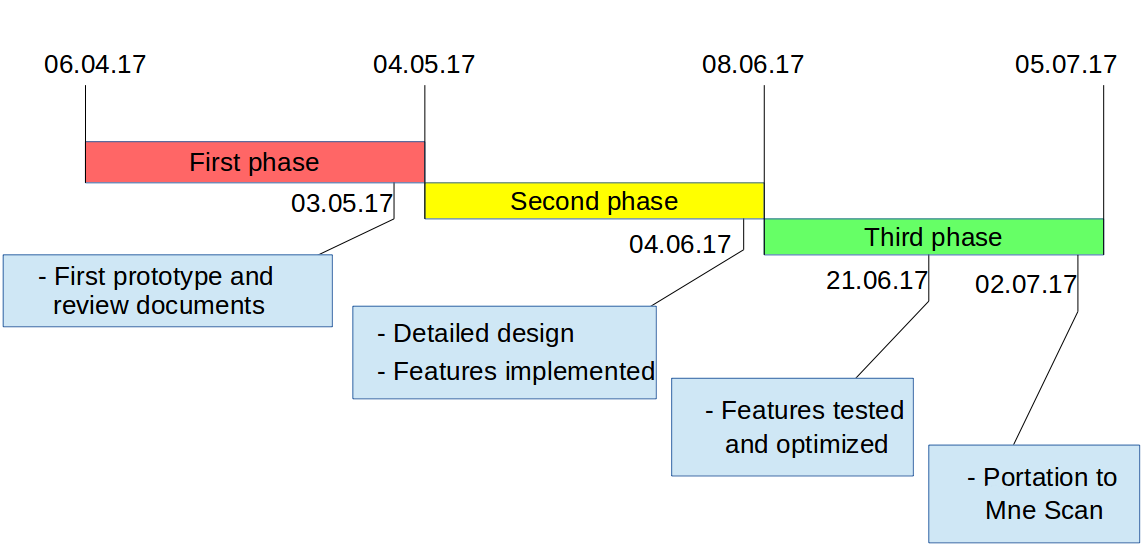
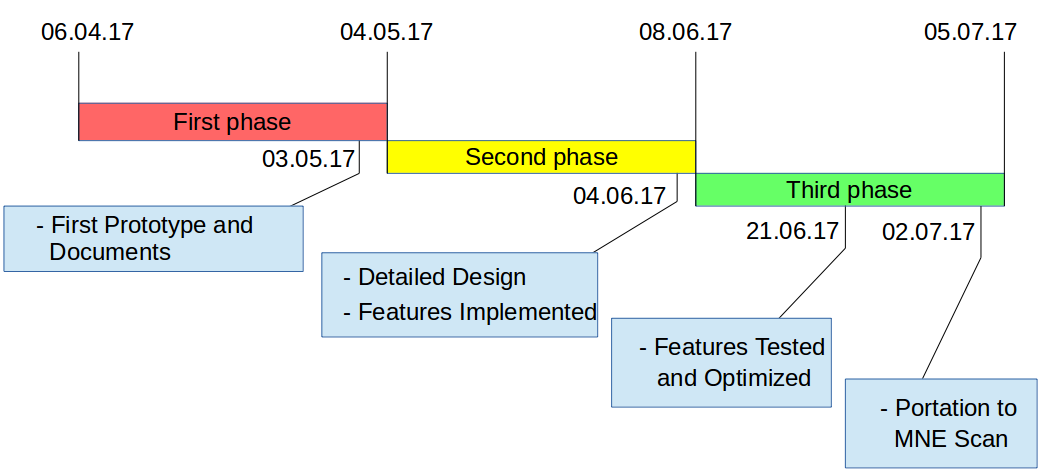
Changes from group review

diff --git a/revdocs/Reviewdokument/RD03.2-GoalsSecondPhase.tex b/revdocs/Reviewdokument/RD03.2-GoalsSecondPhase.tex
@@ -1,15 +1,37 @@
 \subsection{Goals for Third Phase}
-In this section the goals for the following phase are outlined. All features mentioned in the Functional Specification are intended to be operational and optimized afterwards as the project ends with this phase.
+In this section the goals for the following phase are outlined. All features mentioned in the Functional Specification are intended to be operational and optimized as the project ends after this phase.
 
-\subsubsection{Testing of SCDC}
-The correctness of the SCDC-feature has to be tested in order to guarantee realistic results when using its outputs during the later interpolation of signals. This could be done by manually verifying smaller sets of input data or by creating an alternative implementation that compares all possible paths and finds the shortest one.
-\subsubsection{Testing of Projecting}
-In case that the implementation of the sensor-to-mesh mapping will feature advanced data structures, the results can be verified by comparing them to the outputs produced by linear search.
-\subsubsection{Portation to MNE Scan}
-The features should ultimately be integrated into the front-end application MNE Scan, which requires for some extensions and adaption of the class interfaces. In the third phase we aim to achieve this concomitant with the completion of the features.
-\subsubsection{Optimization of the Interpolation}
-Interpolating the sensor data already provides a satisfactory level of efficiency at this point of time. In the upcoming phase we try to further improve its performance by utilizing compute shaders on the graphics card. This could speed up the calculation as well as it offers the advantage of having the output data already on the graphics card for further rendering of graphical images.
-\subsubsection{Bad Channels}
+
+\begin{aims}
+	\item[\hspace*{11mm}Testing of SCDC] The correctness of the SCDC-feature has to be tested in order to guarantee realistic results when using its outputs during the later interpolation of signals. This could be done by manually verifying smaller sets of input data or by creating an alternative implementation that compares all possible paths and finds the shortest one.
+\end{aims}
+
+\begin{aims}
+\item[\hspace*{11mm}Testing of Projecting] In case that the implementation of the sensor-to-mesh mapping will feature advanced data structures, the results can be verified by comparing them to the outputs produced by linear search.
+\end{aims}
+
+
+\begin{aims}
+\item[\hspace*{11mm}Portation to MNE Scan] 
+The features should ultimately be integrated into the front-end application MNE Scan, which requires for some extensions and adaption of the class interfaces. In the third phase we aim to achieve this concomitantly with the completion of the features.
+\end{aims}
+
+\begin{aims}
+	\item[\hspace*{11mm}Optimization of Interpolation] 
+	Interpolating the sensor data already provides a satisfactory level of efficiency at this point of time. In the upcoming phase we try to further improve its performance by utilizing compute shaders on the graphics card. This could speed up the calculation as well as offering the advantage of having the output data already on the graphics card for further rendering of graphical images.
+\end{aims}
+
+\begin{aims}
+	\item[\hspace*{11mm}Bad Channels] 
 As the hardware sensors used to measure the brain activity are known to sometimes fail and thus to produce corrupt input data, these so called Bad Channels must be filtered out before any sensor signals are interpolated.
-\subsubsection{Fibonacci Heap}
-Since the method for the SCDC uses Dijkstras algorithm, a so called Fibonacci Heap could speed up the calculation of distance tables and in this way allow for greater subsets of vertices (see Detailed Design for more details).
+\end{aims}
+
+\begin{aims}
+	\item[\hspace*{11mm}Fibonacci Heap] 
+Since the method for the SCDC uses Dijkstra's algorithm, a so called Fibonacci Heap could speed up the calculation of distance tables and in this way allow for greater subsets of vertices (see Detailed Design for more details).
+\end{aims}
+
+\begin{aims}
+	\item[\hspace*{11mm}K-D Tree] 
+An implementation of a balanced k-D tree could speed up the projecting algorithm, as it provides logarithmic run-time for lookups.
+\end{aims}

diff --git a/revdocs/Reviewdokument/RD03.3-Bugreview.tex b/revdocs/Reviewdokument/RD03.3-Bugreview.tex
@@ -1,6 +1,6 @@
 \subsection{Bugreview}
 Due to encountering some problems during implementation, not all features are finished and ready for testing.
-Nevertheless we were able to fix the majority of the occurring issues. \\ 
+Nevertheless, we were able to fix the majority of the occurring issues. \\ 
 The following aspects and features need further processing in phase three. 
 
 \subsubsection{Missing Feature}
@@ -9,7 +9,7 @@ Until the end of the project this feature has to be implemented and tested.
 \begin{aims}
 	\item[\hspace*{11mm} Integration into Disp3D:] After successfully implementing all algorithmic features into the MNE-CPP library, a further integration is needed to make the newly created functions usable. Disp3D provides the GUI for visualizing the interpolated data, while enabling the user to change settings like the color table.
 	
-	A new \textit{sensorDataTreeItem} is needed to integrate functions from the library. Due to high complexity and needed time investment to fully understand the existing code more time is needed to finish implementation.
+	A new \textit{sensorDataTreeItem} is needed to integrate functions from the library. Due to high complexity more time is needed to finish implementation.
 	
 	To fix this problem the task will have the highest priority at the beginning of the third phase, to quickly finish its implementation and start with further testing and optimization. 
 	
@@ -28,7 +28,7 @@ This function is mandatory and therefore has to be completed during the third ph
 \end{aims}
 
 \subsubsection{Missing Optional Functions}
-After finishing the implementation of all mandatory functions these extensions are to be considered. Furthermore methods for further improvements are mentioned.  
+After finishing the implementation of all mandatory functions these extensions are to be considered. 
 
 \begin{aims}
 	\item[\hspace*{11mm} Computation on GPU:]To further increase the efficiency of the interpolation, calculations are done using compute                							 shaders, utilizing the GPU. 

diff --git a/revdocs/Reviewdokument/RD04-Glossary.tex b/revdocs/Reviewdokument/RD04-Glossary.tex
@@ -2,7 +2,7 @@
 \begin{aims}
 
 \item [Bad channels] are sensor inputs that do not deliver working signals or are not set up correctly.
-\item [Compute shaders] are a shader type in OpenGL and Direct3D. They allow for custom computations to be executed outside the typical rendering pipeline.
+\item [Compute shaders] are a shader type in OpenGL. They allow for custom computations to be executed outside the typical rendering pipeline.
 \item [Disp3D] is a part of the MNE-CPP framework that holds 3D visualization functionality.
 \item[Eigen] is a C++ template library for linear algebra that includes matrices, vectors, numerical solvers, and related algorithms
 \item [Fibonacci Heap] is a data structure for priority queue operations, consisting of a collection of heap-ordered trees.
@@ -12,4 +12,5 @@
 \item [OpenGL] is a cross-language, cross-platform application programming interface (API) for rendering 2D and 3D vector graphics.
 \item [Qt] is a cross-platform framework, mainly used for software applications and graphical user interfaces.
 \item [SCDC] (surface constrained distance calculation) determines the shortest path between two points on a tessellated surface.
+\item[k-D Tree] is a special type of binary search tree for organizing some number of points in k dimensions.
 \end{aims} 

diff --git a/revdocs/Reviewdokument/RD03.4-Results.tex b/revdocs/Reviewdokument/RD03.4-Results.tex
@@ -1,5 +1,5 @@
 \subsection{Results of Second Phase}
-In this sections the achievements of the second phase are documented.
+In this section the achievements of the second phase are documented.
 \begin{aims}
 	\item[\hspace*{11mm} Detailed Design:]A document for the detailed design of the software was created.
 	 It covers implemented classes and their structures, while giving explanations for all functions and components. \\
@@ -14,7 +14,7 @@ In this sections the achievements of the second phase are documented.
 \begin{aims}
 	\item[\hspace*{11mm} Implementation:]Implementations of the first phase were continued and refined. 
 	The first three major features are operational and optimized to a certain degree. \\
-	This results in computation times within the limits of agreements with the product owners.\\
+	This results in computation times within the limits that were agreed upon with the product owners.\\
 	 The software is able to project sensors onto a surface, calculate the distances of vertices on a mesh and create  the weight matrix for later interpolation, which is also implemented and runnable. 
 \end{aims}
 

diff --git a/revdocs/Reviewdokument/RD03-SecondPhase.tex b/revdocs/Reviewdokument/RD03-SecondPhase.tex
@@ -1,5 +1,5 @@
 \section{Second Phase: Implementation}
-This section of the document contains the outcome of the second phase of the project. Basic concepts and decisions of the final design are mentioned and looked upon. Further the final design and a corresponding developer documentation are available in separate documents. \\
+This section of the document contains the outcome of the second phase of the project. Basic concepts and decisions of the final design are mentioned and explained. Further the final design and a corresponding developer documentation are available as separate documents. \\
 ~\\
 Alongside the achievements, problems that arose during this iteration are covered and some issues have to be revisited throughout the third phase. \\
 Lastly a prospect for the next phase is given, with all the tasks that have to be taken care until the end of the project. 

diff --git a/revdocs/Reviewdokument/02Resultsofplanning.tex b/revdocs/Reviewdokument/02Resultsofplanning.tex
@@ -68,7 +68,7 @@ In case one of the risks occurs, certain strategies for solving the issue are pr
 \clearpage
 
 \subsubsection{Milestones} 
-These Milestones provide major dates for significant events during the time of the project.Furthermore they serve as a guideline for the amount of progress that is desired at a certain point of the development process.
+These Milestones provide major dates for significant events during the time of the project. Furthermore they serve as a guideline for the progress that is desired at a certain point of the development process.
 ~\\
 ~\\
 
@@ -86,7 +86,7 @@ These Milestones provide major dates for significant events during the time of t
 \begin{figure}[h]
 	\begin{center}
 		\includegraphics[width= 15cm]{figures/milestones_timeline.png}
-		\caption{Timeline}
+		\caption{Timeline of milestones}
 	\end{center}
 \end{figure}
 

diff --git a/revdocs/Reviewdokument/ReviewDocument.tex b/revdocs/Reviewdokument/ReviewDocument.tex
@@ -23,9 +23,9 @@
 \input{03ResultsofConception} \clearpage
 
 \input{RD03-SecondPhase} \clearpage
-\input{RD03.2-GoalsSecondPhase} \clearpage
 \input{RD03.3-Bugreview} \clearpage
 \input{RD03.4-Results} \clearpage
+\input{RD03.2-GoalsSecondPhase} \clearpage
 \input{RD04-Glossary}
 
 \end{document}
